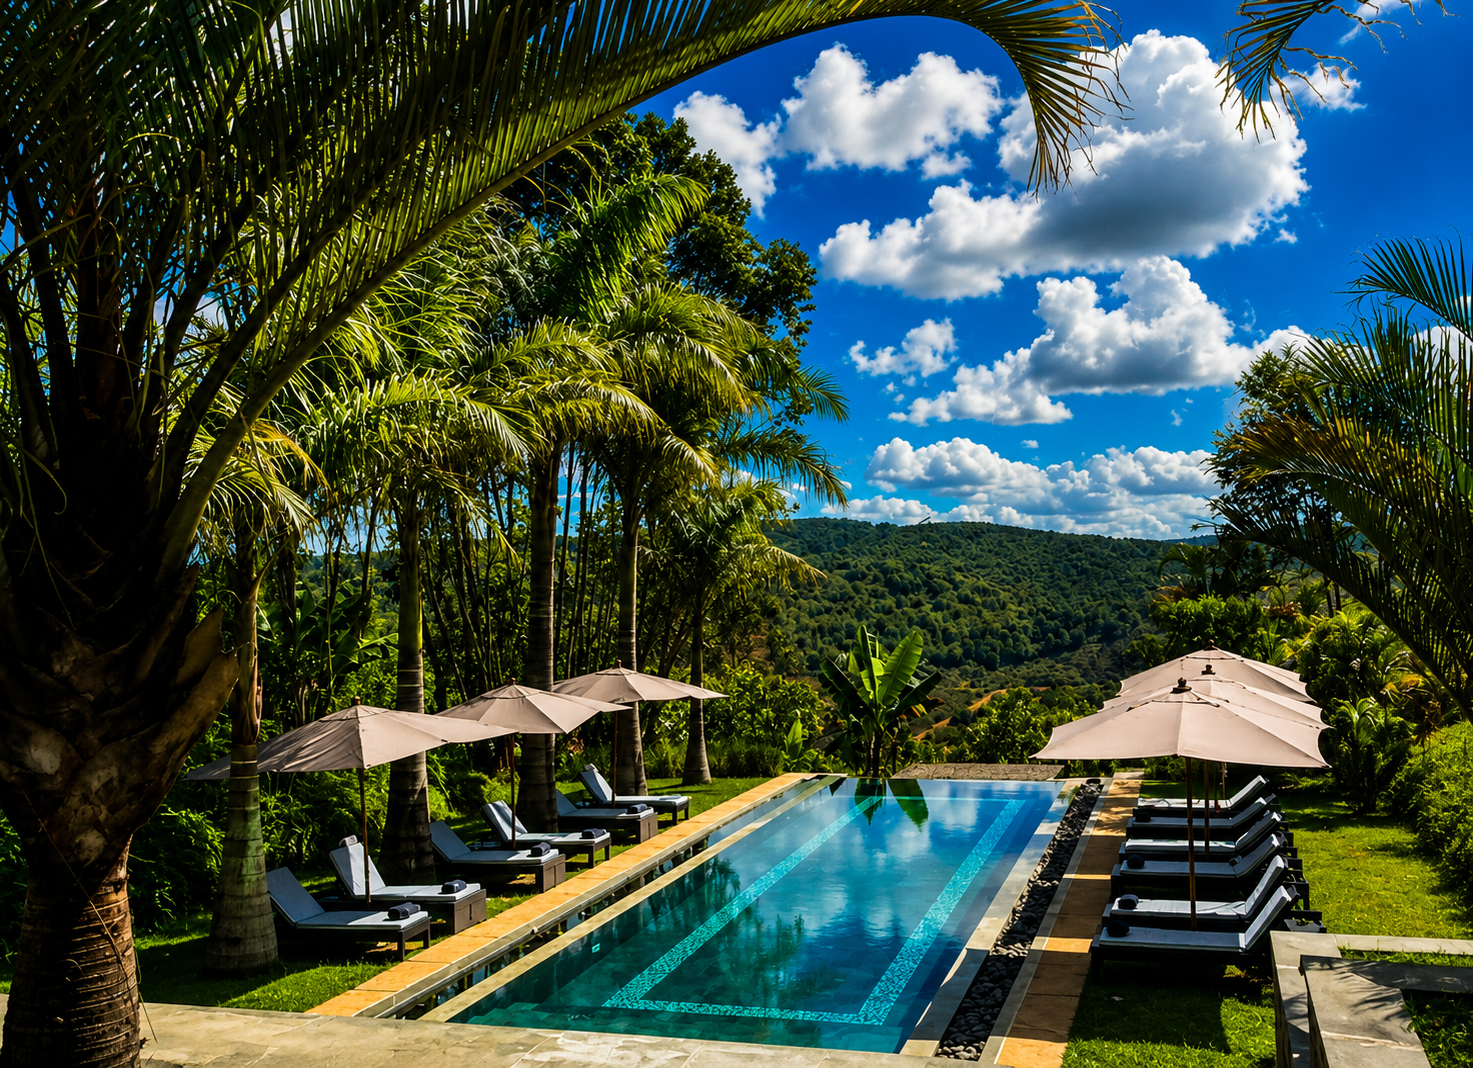
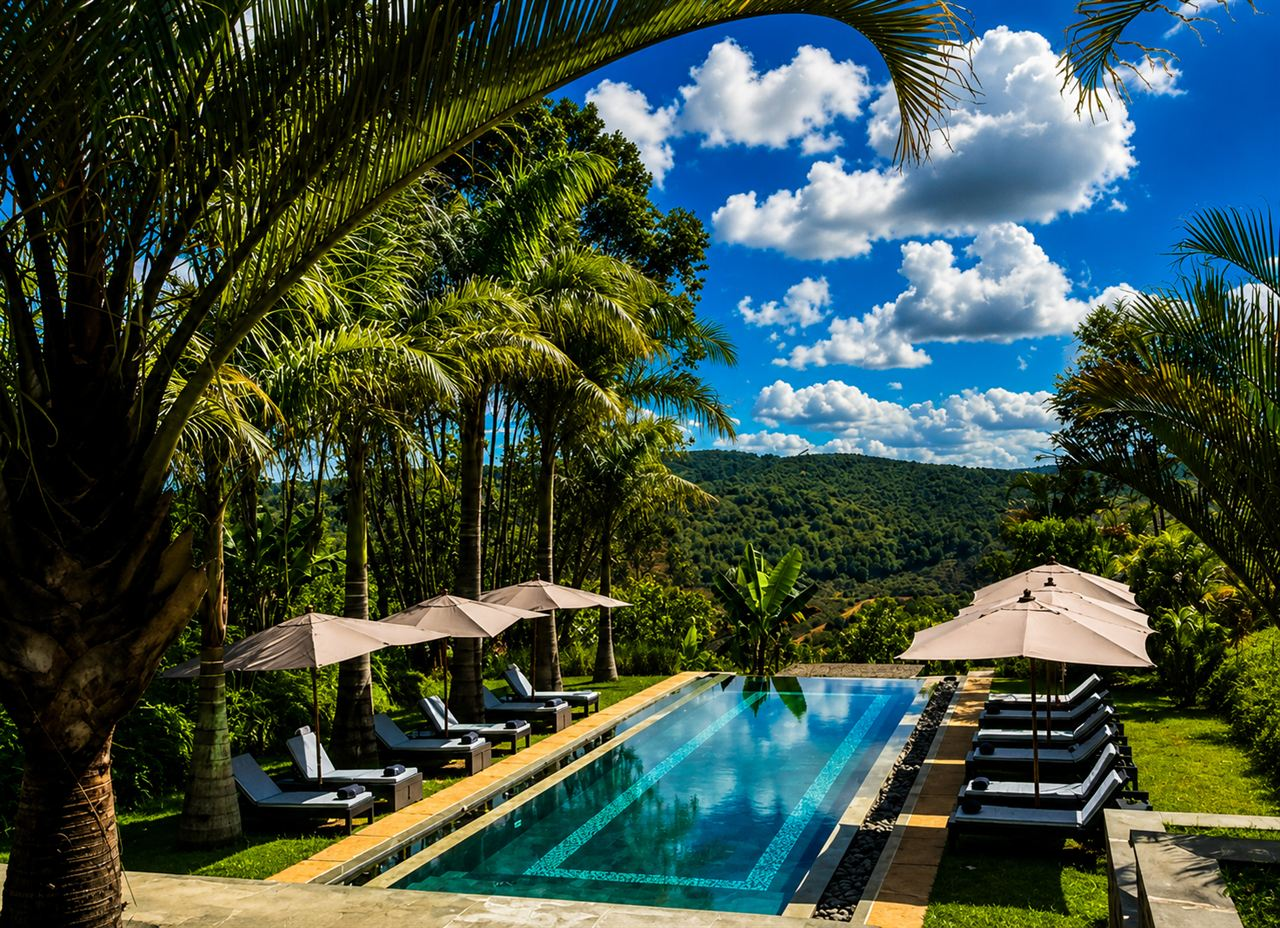
perf(home): degeler le hero pour debloquer le LCP mobile
Le hero (h1 + image, candidats LCP) etait anime via framer-motion avec
opacity:0 -> 1. Le navigateur ne comptait donc le LCP qu'apres telechargement
JS + hydratation + animation (~6s sur 4G lente sur Moto G), alors que l'image
est deja prechargee et ne fait que ~91 Ko en AVIF.

- Remplace les animations d'entree framer-motion du hero par des animations
  CSS pures (heroRise/heroZoom transform-only, opacity:1) -> les candidats LCP
  sont peints des le premier rendu HTML, sans attendre l'hydratation.
- form + trust signals: fondu CSS (non-LCP), respect de prefers-reduced-motion.
- Les popovers Dates/Voyageurs gardent framer-motion (interaction, hors LCP).
- Recompresse hero-pool-madagascar.jpg: 2,9 Mo (PNG deguise) -> 331 Ko (JPEG 1280px).

diff --git a/src/components/home/HeroClean.tsx b/src/components/home/HeroClean.tsx
@@ -2,7 +2,6 @@
 
 import { motion, AnimatePresence } from 'framer-motion';
 import Image from 'next/image';
-import Link from 'next/link';
 import { useRouter } from 'next/navigation';
 import { useState } from 'react';
 import {
@@ -16,8 +15,6 @@ import {
   Mountain,
   Briefcase,
 } from 'lucide-react';
-
-const EASE = [0.16, 1, 0.3, 1] as const;
 
 type Tab = 'hotels' | 'restaurants' | 'attractions' | 'guides';
 
@@ -100,13 +97,8 @@ export default function HeroClean() {
 
           {/* Contenu hero : grid 2 cols (texte 45% / image 55%) */}
           <div className="grid lg:grid-cols-[9fr_11fr] gap-5 sm:gap-8 lg:gap-12 items-stretch mt-5 sm:mt-10">
-            {/* Texte */}
-            <motion.div
-              initial={{ opacity: 0, y: 16 }}
-              animate={{ opacity: 1, y: 0 }}
-              transition={{ duration: 0.7, ease: EASE }}
-              className="text-center lg:text-left flex flex-col justify-center py-3 sm:py-10"
-            >
+            {/* Texte — candidat LCP : transform-only (opacity:1), peint immédiatement */}
+            <div className="hero-rise text-center lg:text-left flex flex-col justify-center py-3 sm:py-10">
               {/* Eyebrow */}
               <div className="hidden sm:inline-flex items-center gap-2 px-3 py-1 bg-white/10 backdrop-blur-sm rounded-full text-[12px] text-white/90 font-medium mb-5 border border-white/15 mx-auto lg:mx-0 w-fit">
                 <span className="w-1.5 h-1.5 rounded-full bg-[#FF6B35]" />
@@ -123,36 +115,29 @@ export default function HeroClean() {
               <p className="mt-2.5 sm:mt-5 text-[14px] sm:text-[18px] text-white/85 max-w-xl leading-relaxed mx-auto lg:mx-0">
                 Hôtels, restaurants, guides et activités vérifiés sur place. Réservation directe, sans intermédiaire.
               </p>
-            </motion.div>
+            </div>
 
-            {/* Photo immersive */}
-            <motion.div
-              initial={{ opacity: 0, y: 24, scale: 0.96 }}
-              animate={{ opacity: 1, y: 0, scale: 1 }}
-              transition={{ duration: 0.9, ease: EASE, delay: 0.15 }}
-              className="relative h-[200px] sm:h-[360px] lg:h-full lg:min-h-[460px] w-full rounded-2xl overflow-hidden border border-white/15 shadow-[0_24px_60px_-12px_rgba(0,0,0,0.4)] bg-[#0F172A]"
-            >
+            {/* Photo immersive — candidat LCP : zoom CSS sur l'image (opacity:1), priority utile */}
+            <div className="relative h-[200px] sm:h-[360px] lg:h-full lg:min-h-[460px] w-full rounded-2xl overflow-hidden border border-white/15 shadow-[0_24px_60px_-12px_rgba(0,0,0,0.4)] bg-[#0F172A]">
               <Image
                 src="/images/highlights/hero-pool-madagascar.jpg"
                 alt="Madagascar"
                 fill
                 priority
                 sizes="(max-width: 1024px) 100vw, 55vw"
-                className="object-cover object-center"
+                className="object-cover object-center hero-zoom"
               />
-            </motion.div>
+            </div>
           </div>
         </div>
       </div>
 
       {/* Search bar à cheval bleu/blanc (style Booking) */}
       <div className="max-w-5xl mx-auto px-4 sm:px-6 -mt-6 sm:-mt-10 relative z-10">
-        <motion.form
+        <form
           onSubmit={handleSearch}
-          initial={{ opacity: 0, y: 16 }}
-          animate={{ opacity: 1, y: 0 }}
-          transition={{ duration: 0.7, ease: EASE, delay: 0.2 }}
-          className="grid grid-cols-2 md:grid-cols-[1.4fr_1fr_1fr_auto] gap-0 bg-white rounded-xl border-2 border-[#FF6B35] shadow-[0_8px_24px_rgba(15,23,42,0.10)]"
+          style={{ animationDelay: '0.2s' }}
+          className="hero-fade-rise grid grid-cols-2 md:grid-cols-[1.4fr_1fr_1fr_auto] gap-0 bg-white rounded-xl border-2 border-[#FF6B35] shadow-[0_8px_24px_rgba(15,23,42,0.10)]"
         >
           {/* Destination */}
           <label className="col-span-2 md:col-span-1 flex items-center gap-3 px-3.5 sm:px-4 py-2.5 sm:py-3.5 border-b md:border-b-0 md:border-r border-[#FF6B35]/30">
@@ -343,19 +328,17 @@ export default function HeroClean() {
             <Search className="w-4 h-4" />
             Rechercher
           </button>
-        </motion.form>
+        </form>
 
         {/* Trust signals */}
-        <motion.div
-          initial={{ opacity: 0 }}
-          animate={{ opacity: 1 }}
-          transition={{ duration: 0.7, ease: EASE, delay: 0.35 }}
-          className="mt-6 sm:mt-10 grid grid-cols-3 gap-3 sm:gap-8"
+        <div
+          style={{ animationDelay: '0.35s' }}
+          className="hero-fade mt-6 sm:mt-10 grid grid-cols-3 gap-3 sm:gap-8"
         >
           <TrustItem value="230+" label="Établissements vérifiés" />
           <TrustItem value="18" label="Régions couvertes" />
           <TrustItem value="4.7" suffix="★" label="Note moyenne" highlight />
-        </motion.div>
+        </div>
       </div>
 
     </section>

diff --git a/src/app/globals.css b/src/app/globals.css
@@ -355,6 +355,37 @@ main {
   animation: slideInUp 0.5s ease-out forwards;
 }
 
+/*
+ * Hero entrance animations — CSS pur (pas de JS).
+ * Les éléments candidats LCP (h1, image) s'animent en transform UNIQUEMENT
+ * et restent à opacity:1 : ils sont peints dès le premier rendu HTML, sans
+ * attendre l'hydratation React. Les éléments non-LCP (form, trust) peuvent
+ * garder un fondu.
+ */
+@keyframes heroRise {
+  from { transform: translateY(16px); }
+  to { transform: translateY(0); }
+}
+@keyframes heroZoom {
+  from { transform: scale(1.04); }
+  to { transform: scale(1); }
+}
+@keyframes heroFadeRise {
+  from { opacity: 0; transform: translateY(16px); }
+  to { opacity: 1; transform: translateY(0); }
+}
+@keyframes heroFade {
+  from { opacity: 0; }
+  to { opacity: 1; }
+}
+.hero-rise { animation: heroRise 0.7s cubic-bezier(0.16, 1, 0.3, 1) both; }
+.hero-zoom { animation: heroZoom 1.2s cubic-bezier(0.16, 1, 0.3, 1) both; }
+.hero-fade-rise { animation: heroFadeRise 0.7s cubic-bezier(0.16, 1, 0.3, 1) both; }
+.hero-fade { animation: heroFade 0.7s ease both; }
+@media (prefers-reduced-motion: reduce) {
+  .hero-rise, .hero-zoom, .hero-fade-rise, .hero-fade { animation: none; }
+}
+
 /* Card Hover Effects */
 .card-hover {
   transition: all 0.3s cubic-bezier(0.4, 0, 0.2, 1);